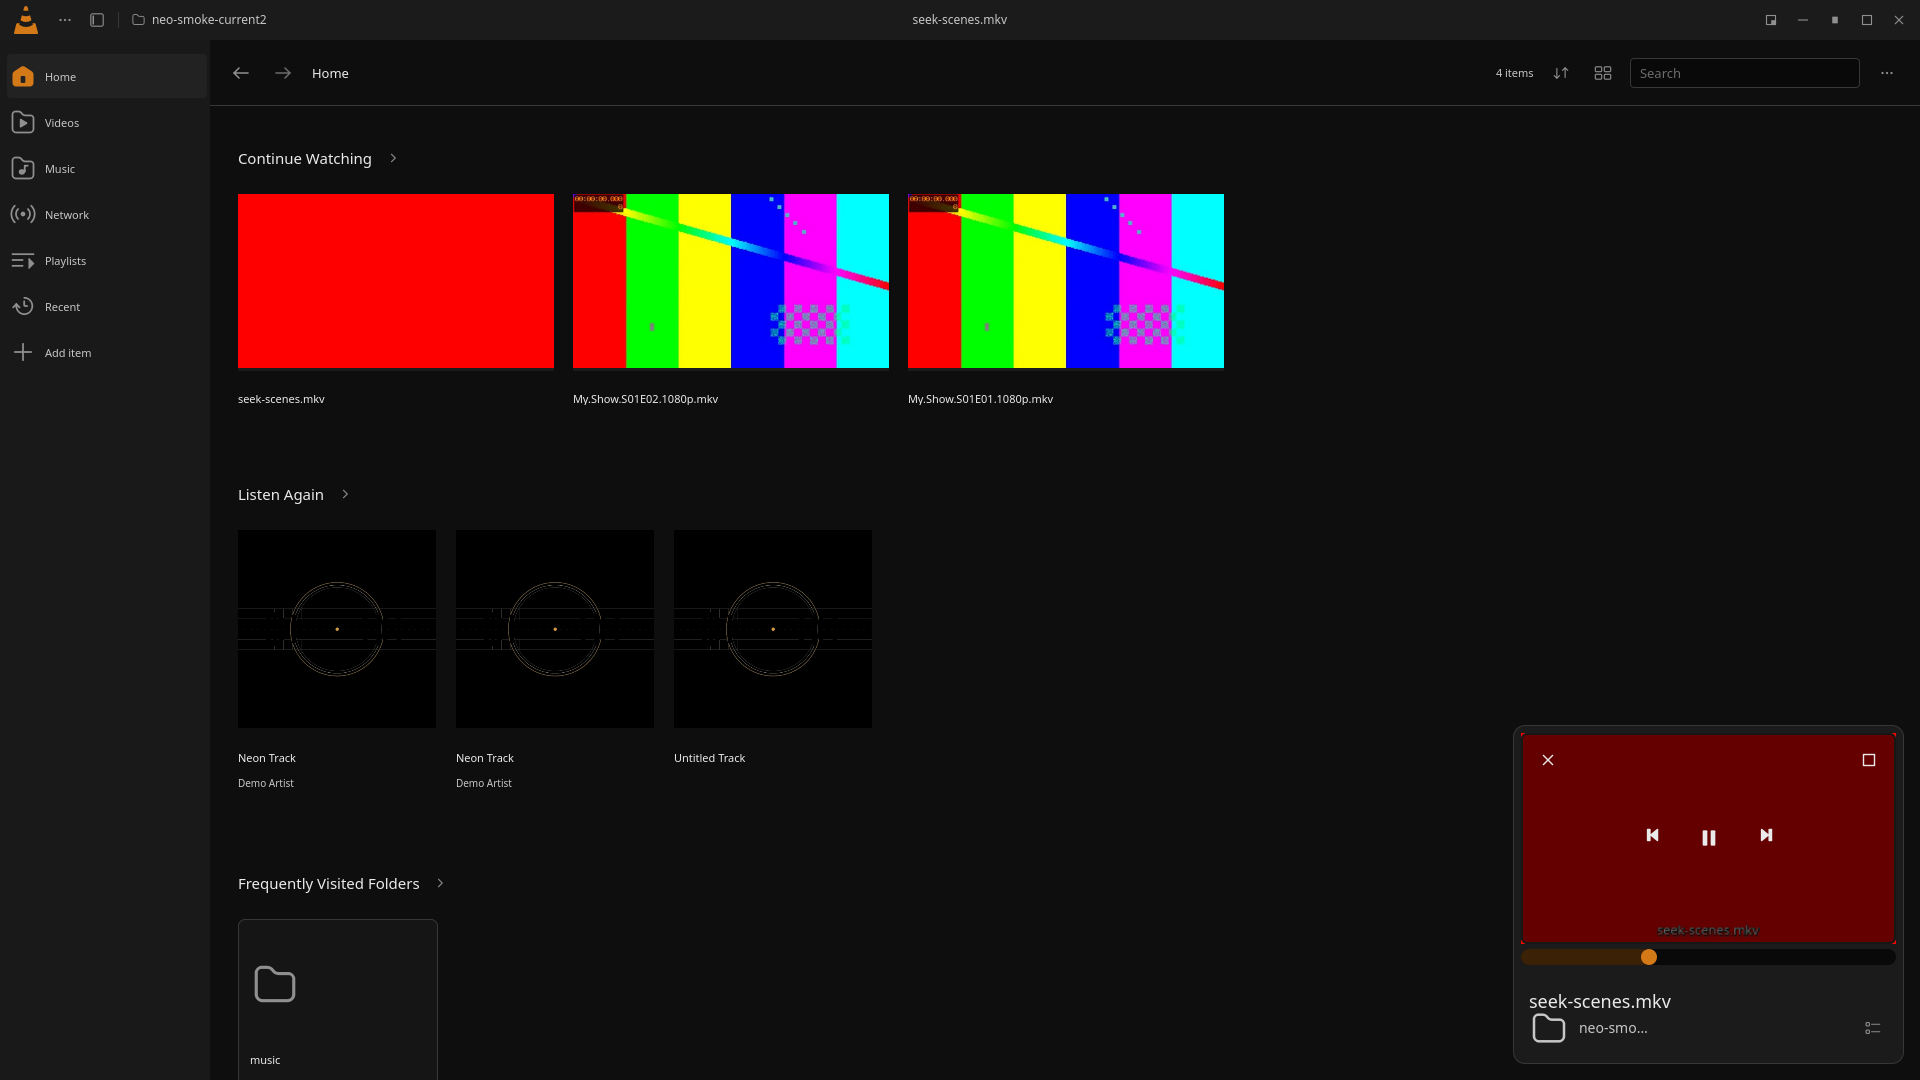
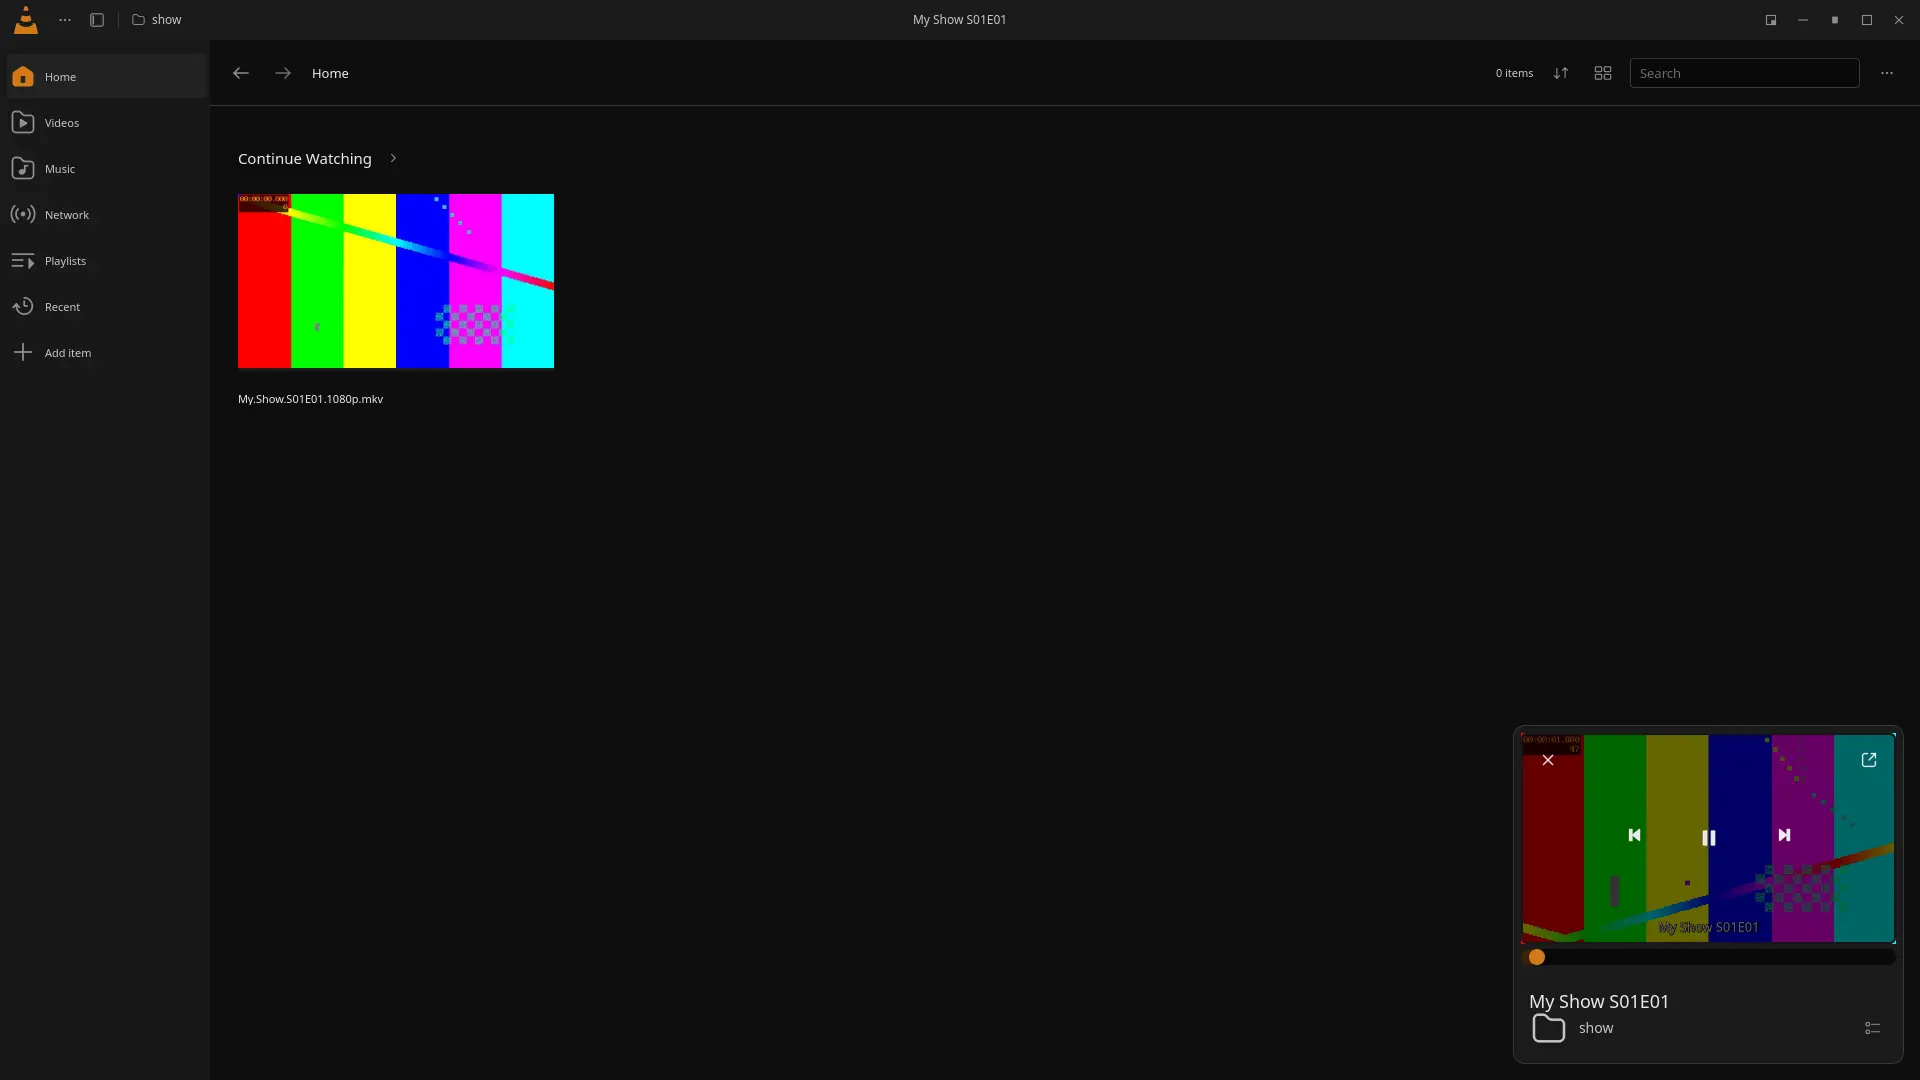
Match mini-player hover controls to Figma

diff --git a/qml/HomeView.qml b/qml/HomeView.qml
@@ -1079,7 +1079,7 @@ Rectangle {
                 anchors.right: parent.right
                 anchors.top: parent.top
                 anchors.margins: 12 * homeMiniPlayer.uiScale
-                icon: "maximize"
+                icon: "open"
                 iconColor: Theme.text
                 iconSize: 22 * homeMiniPlayer.uiScale
                 implicitWidth: 30 * homeMiniPlayer.uiScale
@@ -1090,7 +1090,7 @@ Rectangle {
             }
             Row {
                 anchors.centerIn: parent
-                spacing: 24 * homeMiniPlayer.uiScale
+                spacing: 42 * homeMiniPlayer.uiScale
                 IconButton {
                     objectName: root.sidePanel ? "side-home-mini-player-previous" : "home-mini-player-previous"
                     icon: "previous"

diff --git a/qml/LibraryPanel.qml b/qml/LibraryPanel.qml
@@ -1750,7 +1750,7 @@ Rectangle {
                 anchors.right: parent.right
                 anchors.top: parent.top
                 anchors.margins: 12 * miniPlayer.uiScale
-                icon: "maximize"
+                icon: "open"
                 iconColor: Theme.text
                 iconSize: 22 * miniPlayer.uiScale
                 implicitWidth: 30 * miniPlayer.uiScale
@@ -1761,7 +1761,7 @@ Rectangle {
             }
             Row {
                 anchors.centerIn: parent
-                spacing: 24 * miniPlayer.uiScale
+                spacing: 42 * miniPlayer.uiScale
                 IconButton {
                     objectName: "mini-player-previous"
                     icon: "previous"

diff --git a/docs/figma-parity.md b/docs/figma-parity.md
@@ -149,6 +149,6 @@ PiP and seek-preview performance follow-up (2026-10-24): the Home dashboard PiP 
 
 Subsecond seek-preview follow-up (2026-10-24): hover frames are sampled at 200 ms intervals and still coalesce through a single in-flight decode. A focused real-plugin VLC run moved over an eight-second red/blue clip and reported `requested=6200 ms`, `displayed=6200 ms`, `ready=true`; separate image-provider probes decoded the red frame at 3800 ms and the blue frame at 4200 ms. Legacy thumbnail URLs that specify whole seconds remain supported.
 
-Mini-player movement and transport follow-up (2026-10-25): the Home and full-library mini-players can be dragged from their video surface as well as their title, with a small movement threshold preserving click-to-expand. Title dragging now follows the pointer continuously in both views instead of moving only on release; `scripts/smoke-test.sh` now checks the Home and library title-drag states and the visible control overlay. A focused real-VLC run moved both cards and confirmed their hover-control overlays remained visible and the cards stayed inside their page bounds; a separate click confirmed the video surface still opens the full player. Hover controls were exercised in both views: pause/resume and next in Home, pause/resume and next/previous in the full library; Home expand and close also worked. Transport controls now expose accessible names, including the play/pause state. Keyboard focus on the card reveals the overlay and Tab reaches transport and seek controls in both Home and full-library views; Space pauses and resumes playback, while Left/Right seek by five seconds. Figma's `Miniplayer` default and hover variants were compared directly; overlay transport icons now use the reference white. [`home-full-layout-review.webp`](screenshots/home-full-layout-review.webp) has been refreshed at 1920×1080, [`home-miniplayer-hover.webp`](screenshots/home-miniplayer-hover.webp) records the live hover controls, and [`home-miniplayer-keyboard.webp`](screenshots/home-miniplayer-keyboard.webp) records the tab-focused controls. Both use generated test media, so the video artwork and labels intentionally differ from the reference.
+Mini-player movement and transport follow-up (2026-10-25): the Home and full-library mini-players can be dragged from their video surface as well as their title, with a small movement threshold preserving click-to-expand. Title dragging now follows the pointer continuously in both views instead of moving only on release; `scripts/smoke-test.sh` checks the Home and library title-drag states and the visible control overlay. A fresh `browser` capture of Figma's `Miniplayer` component exposed two remaining hover-state differences: the expand control uses the exported external-open icon and the three transport controls have wider spacing. Both views now use the exact `open.svg` asset and Figma's 42 px transport spacing. A focused real-VLC run moved both cards and confirmed their hover-control overlays remained visible and the cards stayed inside their page bounds; pause/resume, previous/next, expand and close still work after a drag. Keyboard focus on the card reveals the overlay and Tab reaches transport and seek controls in both Home and full-library views; Space pauses and resumes playback, while Left/Right seek by five seconds. [`home-miniplayer-hover.webp`](screenshots/home-miniplayer-hover.webp) is a fresh 1920×1080 capture with the updated icon and spacing; the generated video art and labels intentionally differ from Figma.
 
 Mini-player button smoke coverage (2026-10-25): added real-VLC regression checks for the hover overlay and its Pause, Play, Next, Expand and Close buttons. A collision between hidden side-Home and full-Home card object names made the offscreen click helper target the hidden card; the two variants now have distinct names, and the Continue Watching click reopens video and restores the player controls.
